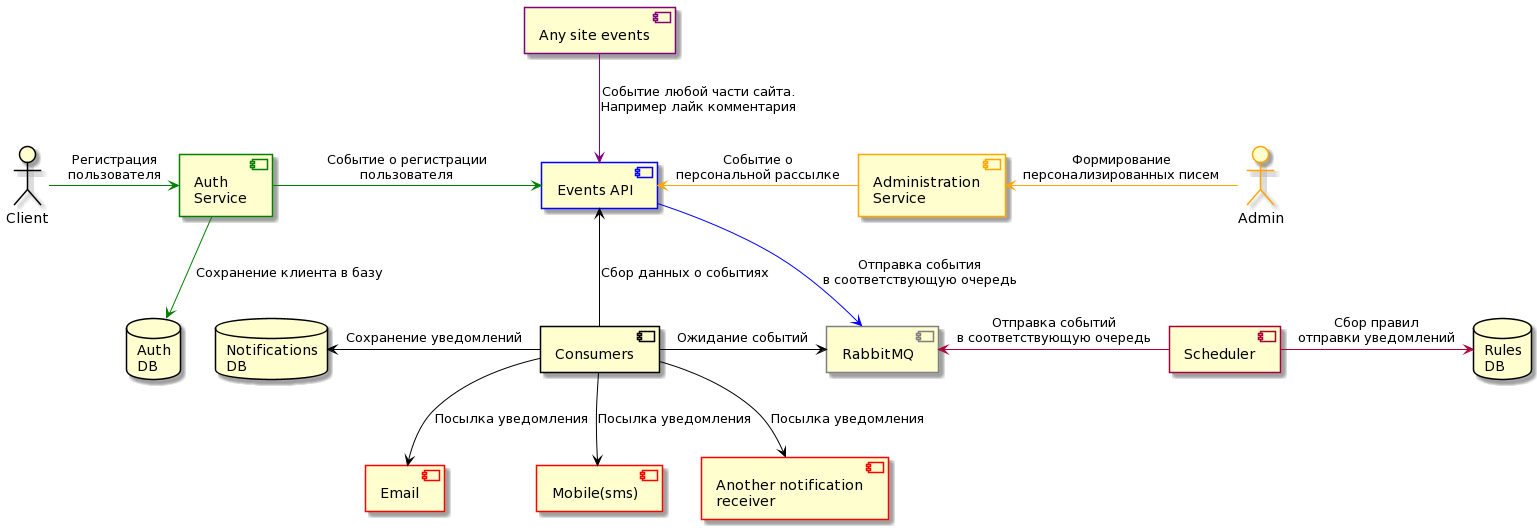
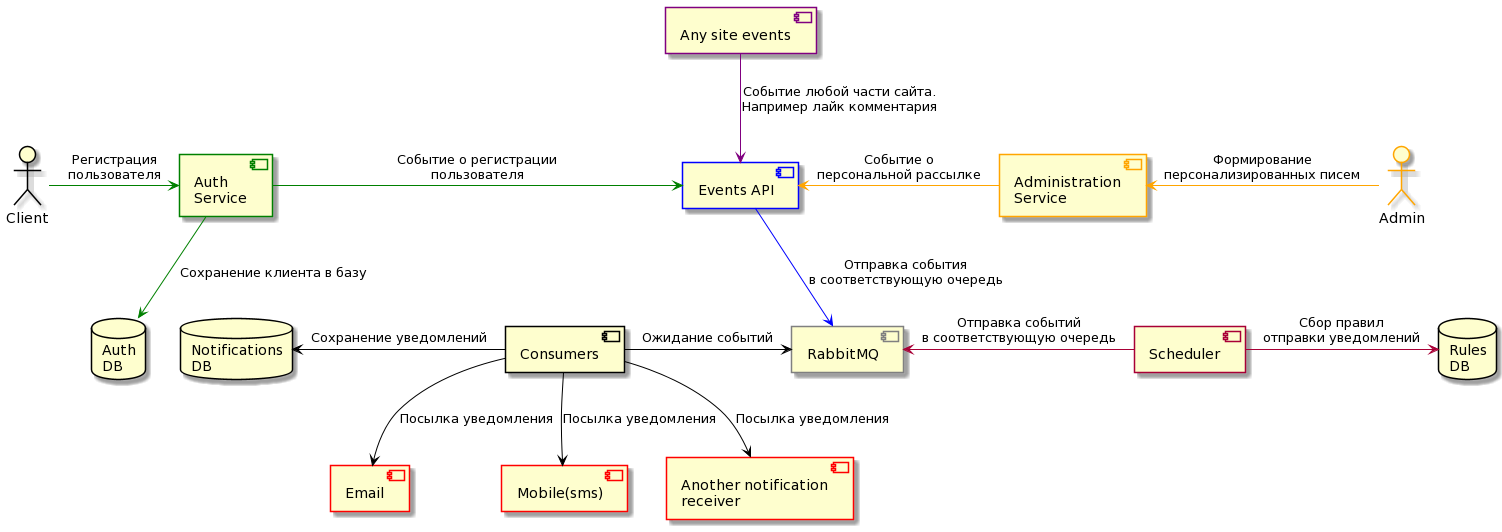
Update UML. Delete test task scheduler. Update Readme. Moved api prefixes to env vars.

diff --git a/scheduler/async_client.py b/scheduler/async_client.py
@@ -8,14 +8,14 @@ from models.film import FilmForNotification
 from models.user import User
 
 ugc_url = getenv("UGC_URL")
-bookmark_api_prefix = "/api/v1/bookmark/"
+bookmark_api_prefix = getenv("BOOKMARK_API_PREFIX", "/api/v1/bookmark/")
 ugc_timeout = float(getenv("UGC_TIMEOUT", 60.0))
 
 auth_url = getenv("AUTH_URL")
-profile_api_prefix = "/api/v1/profile/"
+profile_api_prefix = getenv("PROFILE_API_PREFIX", "/api/v1/profile/")
 
 movie_search_url = getenv("MOVIE_SEARCH_URL")
-film_api_prefix = "/api/v1/film/"
+film_api_prefix = getenv("FILM_API_PREFIX", "/api/v1/film/")
 
 
 async def get_bookmarks_per_user():

diff --git a/scheduler/jobs.py b/scheduler/jobs.py
@@ -16,11 +16,4 @@ jobs_list = [
         "day": "1st sat",
         "hour": 18,
     },
-    {
-        "id": "test_job",
-        "func": "job_definitions:saved_films",
-        "replace_existing": True,
-        "trigger": "interval",
-        "seconds": 5,
-    },
 ]

diff --git a/README.md b/README.md
@@ -3,9 +3,14 @@
 # Запуск проекта
 1. Скопировать переменные окружения командой `make copy_env_file`.
 2. Запустить `docker-compose up -d --build`
-3. Собрать статику для `Administration event service` командой `docker-compose exec administration python manage.py 
+3. Запустить `make init`
+4. Собрать статику для `Administration event service` командой `docker-compose exec administration python manage.py 
    collectstatic`
+5. Для поднятия базы и коллекций в MongoDB сервиса `UGC` выполнить команду `bash up_mongo.sh`
+6. Для поднятия базы и коллекций в MongoDB сервиса `Notifications` выполнить команду `bash events_collections.sh`
 
+# UGC_API
+Swagger - `http://127.0.0.1:7777/api/openapi`
 
 # EventsAPI
 Swagger - `http://127.0.0.1:10000/api/openapi`
@@ -21,12 +26,12 @@ Swagger - `http://127.0.0.1:8001/`
 
 # Scheduler API
 
-/scheduler [GET] > returns basic information about the app
-/scheduler/jobs [POST json job data] > adds a job to the scheduler
-/scheduler/jobs/<job_id> [GET] > returns json of job details
-/scheduler/jobs [GET] > returns json with details of all jobs
-/scheduler/jobs/<job_id> [DELETE] > deletes job from scheduler
-/scheduler/jobs/<job_id> [PATCH json job data] > updates an already existing job
-/scheduler/jobs/<job_id>/pause [POST] > pauses a job, returns json of job details
-/scheduler/jobs/<job_id>/resume [POST] > resumes a job, returns json of job details
-/scheduler/jobs/<job_id>/run [POST] > runs a job now, returns json of job details
+* /scheduler [GET] > returns basic information about the app
+* /scheduler/jobs [POST json job data] > adds a job to the scheduler
+* /scheduler/jobs/<job_id> [GET] > returns json of job details
+* /scheduler/jobs [GET] > returns json with details of all jobs
+* /scheduler/jobs/<job_id> [DELETE] > deletes job from scheduler
+* /scheduler/jobs/<job_id> [PATCH json job data] > updates an already existing job
+* /scheduler/jobs/<job_id>/pause [POST] > pauses a job, returns json of job details
+* /scheduler/jobs/<job_id>/resume [POST] > resumes a job, returns json of job details
+* /scheduler/jobs/<job_id>/run [POST] > runs a job now, returns json of job details
